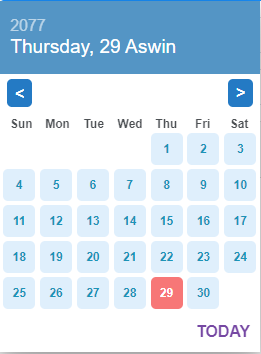
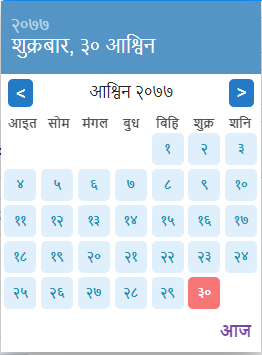
fix today click with other format support

diff --git a/src/v-nepalidatepicker.vue b/src/v-nepalidatepicker.vue
@@ -273,7 +273,7 @@ export default {
     },
     today() {
       this.formatedValue = new NepaliDate().format(this.format);
-      this.date = new NepaliDate(this.formatedValue);
+      this.date = new NepaliDate();
       this.setMonthAndYear(this.date.getMonth(), this.date.getYear());
       this.hide();
     },
